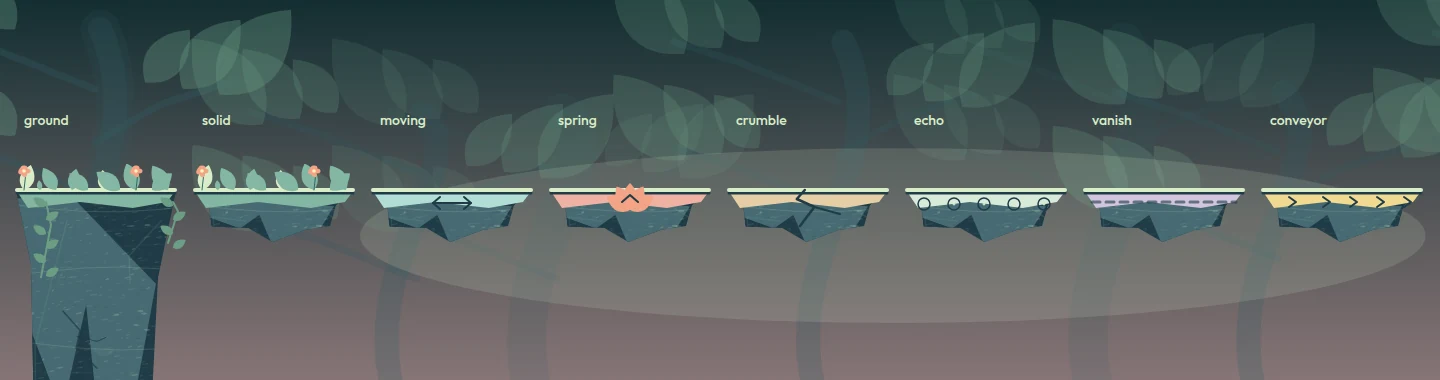
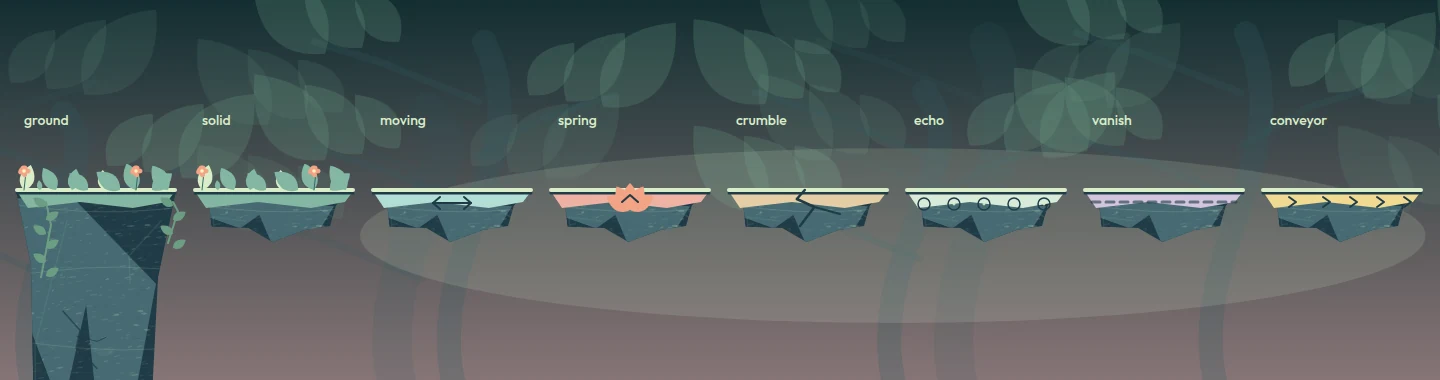
Le songe part dans l'autre sens
Issue #3, seconde moitié — troisième lieu, la silhouette.

Sur le dos d'un songe était une bande plate parcourue de gauche à droite :
on montait sur le dormeur, il allait vers la sortie, on descendait. Le trajet
et la sortie allaient dans le même sens, comme dans cinq lieux sur six.

C'est maintenant un aller-retour. On part de l'île de droite, adossée à une
falaise de 350 px qu'aucun saut ne franchit. Le dormeur emmène vers la
gauche, loin de la sortie, au-dessus du gouffre. Sur l'autre rive, un
escalier de trois marches mène à la route des hauteurs : neuf corniches,
dont une friable et une qui s'efface, au-dessus du chemin qu'on vient de
faire, jusqu'au sommet de la falaise. L'aller se fait porté, le retour à
pied, et on voit l'un depuis l'autre.

Le dormeur peut désormais partir de l'autre bout (`startAt: 'to'`) et, après
une chute depuis l'île de départ, il y revient. Le hérisson attend au pied
de l'escalier, l'essaim reste sur la route de l'aller. Une troisième aide
dit que la falaise ne se franchit que par le haut ; elle est traduite dans
les cinq langues, comme le nouvel objectif et la première aide réécrite.

Le contrat du lieu est durci : porté sur au moins 800 px, et le sommet de la
falaise atteint après avoir été porté. Le pilote le fait sans mort (1529 px
portés, retour par les hauteurs) : il attend que le dormeur arrive au bout
de l'aller, puis grimpe. Un nouveau contrôle prouve que l'île de départ est
[…]

diff --git a/LUMEN.html b/LUMEN.html
@@ -1922,8 +1922,8 @@ window.LumenI18n.add([
   ['Arrivé trop tard ? Attends sur la rive : le nuage repasse toujours.', 'Too late? Wait on the bank: the cloud always comes back.', '¿Llegaste tarde? Espera en la orilla: la nube siempre vuelve a pasar.', 'تأخرت؟ انتظر على الضفة: السحابة تعود دائمًا.', '来晚了？在岸边等一等：云朵总会再飘回来。'],
   ['Sur le dos d’un songe', 'On the back of a dream', 'A lomos de un sueño', 'على ظهر حلم', '梦之背上'],
   ['Le jardin voyage pendant que tu marches.', 'The garden travels as you walk.', 'El jardín viaja mientras caminas.', 'تسافر الحديقة وأنت تمشي.', '你在行走，花园也在旅行。'],
-  ['Appelle le grand dormeur et laisse-le porter le jardin.', 'Call the great sleeper and let it carry the garden.', 'Llama al gran durmiente y deja que lleve el jardín.', 'نادِ النائم الكبير ودعه يحمل الحديقة.', '呼唤沉睡的巨兽，让它驮起花园。'],
-  ['Le grand dormeur porte un jardin. Monte sur son dos, puis appelle-le.', 'The great sleeper carries a garden. Climb onto its back, then call to it.', 'El gran durmiente lleva un jardín. Sube a su lomo y llámalo.', 'يحمل النائم الكبير حديقة. اصعد على ظهره، ثم نادِه.', '沉睡的巨兽驮着一座花园。爬到它背上，再呼唤它。'],
+  ['Traverse le gouffre sur le dos du grand dormeur, puis reviens par les hauteurs.', 'Cross the chasm on the great sleeper’s back, then come back along the heights.', 'Cruza el abismo a lomos del gran durmiente y vuelve por las alturas.', 'اعبر الهوّة على ظهر النائم الكبير، ثم عُد عبر المرتفعات.', '骑在沉睡巨兽的背上越过深渊，再沿着高处返回。'],
+  ['Le grand dormeur t’emmène de l’autre côté du gouffre. Monte sur son dos, puis appelle-le.', 'The great sleeper takes you across the chasm. Climb onto its back, then call to it.', 'El gran durmiente te lleva al otro lado del abismo. Sube a su lomo y llámalo.', 'يأخذك النائم الكبير إلى الضفة الأخرى من الهوّة. اصعد على ظهره ثم نادِه.', '沉睡的巨兽会带你越过深渊。爬上它的背，再呼唤它。'],
   ['Un nouvel appel prolonge son voyage. Tu peux descendre chercher les lumières, puis revenir.', 'Another call extends its journey. You can hop off to find lights, then return.', 'Otra llamada prolonga su viaje. Puedes bajar a buscar luces y volver.', 'نداء آخر يطيل رحلته. يمكنك النزول للبحث عن الأضواء ثم العودة.', '再次呼唤可延长旅程。你可以跳下去寻找光芒，再回到它背上。'],
   ['Le petit astre égaré', 'The little lost star', 'El pequeño astro perdido', 'النجم الصغير التائه', '迷路的小星星'],
   ['Il éclaire le chemin de celui qui le porte.', 'It lights the way for whoever carries it.', 'Ilumina el camino de quien lo lleva.', 'يُنير الطريق لمن يحمله.', '谁带着它，它就为谁照亮道路。'],
@@ -1990,7 +1990,8 @@ window.LumenI18n.add([
   ['Découvre un passage secret dans les jardins.', 'Discover a secret path in the gardens.', 'Descubre un pasaje secreto en los jardines.', 'اكتشف ممرًا سريًا في الحدائق.', '在花园中发现一条秘密通道。'],
   ['Termine le jardin précédent pour ouvrir ce lieu.', 'Complete the preceding garden to open this place.', 'Completa el jardín anterior para abrir este lugar.', 'أكمل الحديقة السابقة لفتح هذا المكان.', '完成前一座花园即可开启此地。'],
   ['Les Rêves nomades', 'Wandering Dreams', 'Los Sueños Nómadas', 'الأحلام الرحّالة', '流浪梦境'],
-  ['Une nuit ne ressemble à aucune autre.', 'Every night is different.', 'Cada noche es diferente.', 'لا تشبه ليلةٌ أخرى.', '每一夜都不同。']
+  ['Une nuit ne ressemble à aucune autre.', 'Every night is different.', 'Cada noche es diferente.', 'لا تشبه ليلةٌ أخرى.', '每一夜都不同。'],
+  ['La falaise ne se franchit que par le haut. Le chemin du retour passe au-dessus du gouffre.', 'The cliff can only be crossed from above. The way back runs high over the chasm.', 'El acantilado solo se supera por arriba. El camino de vuelta pasa por encima del abismo.', 'لا يُعبَر الجرف إلا من الأعلى. طريق العودة يمرّ فوق الهوّة.', '悬崖只能从上方越过。回程的路高悬在深渊之上。'],
 ]);
 
 </script>
@@ -3612,7 +3613,10 @@ window.LumenI18n.add([
     if (config.kind === 'ride') {
       state.mount = game.enemies.find(enemy => enemy.mount);
       state.deck = game.platforms.find(platform => platform.placeRole === 'mount');
-      state.direction = 1; state.metrics.carriedDistance = 0;
+      // Un aller-retour peut commencer à l'autre bout : le dormeur attend alors
+      // à `toX` et part vers la gauche.
+      state.direction = config.startAt === 'to' ? -1 : 1; state.metrics.carriedDistance = 0;
+      if (config.returnAt) state.metrics.returnedHigh = false;
     }
     if (config.kind === 'escort') {
       // L'astre ne marche plus seul : on le prend, on le porte, on le pose.
@@ -3675,6 +3679,11 @@ window.LumenI18n.add([
       deck.dx = deck.x - old; deck.dy = 0;
       mount.x = deck.x; mount.y = deck.y + 3; mount.facing = state.direction;
       if (game.player.standingPlatform === deck) state.metrics.carriedDistance += Math.abs(deck.dx);
+      // Le retour par les hauteurs : avoir été porté, puis atteindre le haut
+      // de la falaise, là où l'île de départ ne mène jamais.
+      const back = config.returnAt, p = game.player;
+      if (back && !state.metrics.returnedHigh && state.metrics.carriedDistance > 800 &&
+        p.x + p.w / 2 >= back.x && p.y + p.h <= back.surfaceY + 6) state.metrics.returnedHigh = true;
     }
     if (state.kind === 'escort') carryBeforePhysics(game, state, config);
     if (state.kind === 'chain') {
@@ -4577,32 +4586,48 @@ window.LumenI18n.add([
   // old key: older profiles keep their frontier through game.isUnlocked().
   const newPlaces = [
     {
+      // Itération 13 : un aller-retour. On part de l'île de droite, adossée à
+      // une falaise qu'aucun saut ne franchit ; le grand dormeur emmène vers
+      // la GAUCHE, loin de la sortie, au-dessus du gouffre. Là-bas, un
+      // escalier mène aux hauteurs, et c'est par elles qu'on revient —
+      // au-dessus du chemin qu'on vient de faire, jusqu'au sommet de la falaise.
       id: 12, key: 'dos-du-songe', journeyAct: 1, name: 'Sur le dos d’un songe',
       subtitle: 'Le jardin voyage pendant que tu marches.', theme: 'meadow', width: 3100, height: 900,
-      medalTargets: { gold: 75, silver: 120 }, spawn: { x: 100, y: 554 }, exit: exit(3100),
-      goal: 'Appelle le grand dormeur et laisse-le porter le jardin.',
-      place: { kind: 'ride', fromX: 500, toX: 2410, speed: 95,
-        pilot: [{ x: 610, surfaceY: 585, ride: true }, { x: 2640, surfaceY: 600 }, { x: 2960, surfaceY: 600 }],
+      medalTargets: { gold: 75, silver: 120 }, spawn: { x: 2700, y: 554 }, exit: exit(3100),
+      goal: 'Traverse le gouffre sur le dos du grand dormeur, puis reviens par les hauteurs.',
+      place: { kind: 'ride', fromX: 500, toX: 2410, speed: 95, startAt: 'to', returnAt: { x: 2900, surfaceY: 250 },
+        pilot: [{ x: 2560, surfaceY: 585, ride: 'left' }, { x: 205, surfaceY: 500 }, { x: 410, surfaceY: 410 },
+          { x: 645, surfaceY: 320 }, { x: 875, surfaceY: 300 }, { x: 1105, surfaceY: 260 }, { x: 1340, surfaceY: 300 },
+          { x: 1575, surfaceY: 270 }, { x: 1810, surfaceY: 300 }, { x: 2035, surfaceY: 260 }, { x: 2270, surfaceY: 290 },
+          { x: 2495, surfaceY: 250 }, { x: 2730, surfaceY: 240 }, { x: 3000, surfaceY: 250 }],
         captureMetric: { name: 'carriedDistance', min: 420 } },
-      platforms: [ground(0, 760), ground(2460, 640),
-        ledge(500, 585, 240, 'solid', { placeRole: 'mount' }),
-        ledge(1070, 490, 230), ledge(1280, 390, 240), ledge(1490, 490, 310),
-        ledge(2660, 485, 220), ledge(2850, 390, 180)],
-      enemies: [{ ...enemy('sleeper', 500, 660, 500, 2410), x: 500, y: 588, w: 240, h: 78, mount: true },
-        // Sur la route de la monture : l'essaim oblige à décider si l'on baisse
-        // la tête, si l'on saute, ou si l'on quitte le dos avant qu'il n'arrive.
+      platforms: [ground(0, 760), ground(2460, 440),
+        // La falaise : 350 px au-dessus de l'île de départ. Elle n'a qu'un
+        // accès, par le haut, au bout du chemin du retour.
+        ground(2900, 200, 250),
+        ledge(2410, 585, 240, 'solid', { placeRole: 'mount' }),
+        // Deux corniches basses, à portée du dos du dormeur pendant l'aller.
+        ledge(1100, 490, 180), ledge(1500, 480, 200),
+        // L'escalier de l'autre rive, puis la route des hauteurs.
+        ledge(120, 500, 170), ledge(330, 410, 160), ledge(560, 320, 170),
+        ledge(800, 300, 150), ledge(1030, 260, 150, 'crumble'), ledge(1260, 300, 160), ledge(1500, 270, 150, 'vanish'),
+        ledge(1730, 300, 160), ledge(1960, 260, 150), ledge(2190, 290, 160), ledge(2420, 250, 150), ledge(2650, 240, 160)],
+      enemies: [{ ...enemy('sleeper', 2410, 660, 500, 2410), x: 2410, y: 588, w: 240, h: 78, mount: true },
+        // Sur la route de l'aller : l'essaim oblige à choisir le moment où
+        // l'on reste accroupi sur le dos, ou celui où l'on saute.
         enemy('swarm', 1560, 430, 1400, 1760),
-        // À l'arrivée, un veilleur : descendre du songe n'est pas gratuit.
-        enemy('hopper', 2700, 600, 2560, 2900)],
-      collectibles: [...coins(235, 552, 6), ...arc(620, 525, 5), ...coins(1310, 345, 5),
-        // Le long du trajet de la monture : ce qu'on ramasse sans descendre.
-        ...arc(1500, 500, 6), ...coins(1880, 470, 5), ...arc(2120, 500, 5),
-        ...coins(2680, 443, 5),
-        item('star', 1140, 442), item('star', 1400, 340), item('star', 2930, 340), item('heart', 2500, 550)],
-      checkpoints: [checkpoint(350), checkpoint(2560)], hazards: [],
-      secrets: [secret(1290, 280, 210, 105)], wakeables: [],
-      hints: [{ x: 160, text: 'Le grand dormeur porte un jardin. Monte sur son dos, puis appelle-le.' },
-        { x: 650, text: 'Un nouvel appel prolonge son voyage. Tu peux descendre chercher les lumières, puis revenir.' }]
+        // À l'arrivée, un veilleur au pied de l'escalier : descendre du songe
+        // n'est pas gratuit.
+        enemy('hopper', 420, 600, 300, 700)],
+      collectibles: [...coins(2520, 552, 5), ...arc(2150, 540, 6), ...arc(1880, 540, 6), ...coins(1115, 445, 5),
+        ...arc(640, 540, 5), ...coins(140, 455, 4), ...coins(345, 365, 4),
+        ...arc(820, 262, 4), ...coins(1275, 255, 4), ...arc(1740, 262, 4), ...coins(2200, 245, 4), ...arc(2430, 212, 4), ...coins(2920, 205, 5),
+        item('star', 1600, 432), item('star', 1990, 212), item('star', 2730, 195), item('heart', 60, 550)],
+      checkpoints: [checkpoint(2560), checkpoint(60)], hazards: [],
+      secrets: [secret(1260, 170, 200, 90)], wakeables: [],
+      hints: [{ x: 2640, text: 'Le grand dormeur t’emmène de l’autre côté du gouffre. Monte sur son dos, puis appelle-le.' },
+        { x: 2080, text: 'Un nouvel appel prolonge son voyage. Tu peux descendre chercher les lumières, puis revenir.' },
+        { x: 420, text: 'La falaise ne se franchit que par le haut. Le chemin du retour passe au-dessus du gouffre.' }]
     },
     {
       // Itération 13 : on ne l'appelle plus, on le PORTE. Et le lieu descend.

diff --git a/js/levels.js b/js/levels.js
@@ -714,32 +714,48 @@
   // old key: older profiles keep their frontier through game.isUnlocked().
   const newPlaces = [
     {
+      // Itération 13 : un aller-retour. On part de l'île de droite, adossée à
+      // une falaise qu'aucun saut ne franchit ; le grand dormeur emmène vers
+      // la GAUCHE, loin de la sortie, au-dessus du gouffre. Là-bas, un
+      // escalier mène aux hauteurs, et c'est par elles qu'on revient —
+      // au-dessus du chemin qu'on vient de faire, jusqu'au sommet de la falaise.
       id: 12, key: 'dos-du-songe', journeyAct: 1, name: 'Sur le dos d’un songe',
       subtitle: 'Le jardin voyage pendant que tu marches.', theme: 'meadow', width: 3100, height: 900,
-      medalTargets: { gold: 75, silver: 120 }, spawn: { x: 100, y: 554 }, exit: exit(3100),
-      goal: 'Appelle le grand dormeur et laisse-le porter le jardin.',
-      place: { kind: 'ride', fromX: 500, toX: 2410, speed: 95,
-        pilot: [{ x: 610, surfaceY: 585, ride: true }, { x: 2640, surfaceY: 600 }, { x: 2960, surfaceY: 600 }],
+      medalTargets: { gold: 75, silver: 120 }, spawn: { x: 2700, y: 554 }, exit: exit(3100),
+      goal: 'Traverse le gouffre sur le dos du grand dormeur, puis reviens par les hauteurs.',
+      place: { kind: 'ride', fromX: 500, toX: 2410, speed: 95, startAt: 'to', returnAt: { x: 2900, surfaceY: 250 },
+        pilot: [{ x: 2560, surfaceY: 585, ride: 'left' }, { x: 205, surfaceY: 500 }, { x: 410, surfaceY: 410 },
+          { x: 645, surfaceY: 320 }, { x: 875, surfaceY: 300 }, { x: 1105, surfaceY: 260 }, { x: 1340, surfaceY: 300 },
+          { x: 1575, surfaceY: 270 }, { x: 1810, surfaceY: 300 }, { x: 2035, surfaceY: 260 }, { x: 2270, surfaceY: 290 },
+          { x: 2495, surfaceY: 250 }, { x: 2730, surfaceY: 240 }, { x: 3000, surfaceY: 250 }],
         captureMetric: { name: 'carriedDistance', min: 420 } },
-      platforms: [ground(0, 760), ground(2460, 640),
-        ledge(500, 585, 240, 'solid', { placeRole: 'mount' }),
-        ledge(1070, 490, 230), ledge(1280, 390, 240), ledge(1490, 490, 310),
-        ledge(2660, 485, 220), ledge(2850, 390, 180)],
-      enemies: [{ ...enemy('sleeper', 500, 660, 500, 2410), x: 500, y: 588, w: 240, h: 78, mount: true },
-        // Sur la route de la monture : l'essaim oblige à décider si l'on baisse
-        // la tête, si l'on saute, ou si l'on quitte le dos avant qu'il n'arrive.
+      platforms: [ground(0, 760), ground(2460, 440),
+        // La falaise : 350 px au-dessus de l'île de départ. Elle n'a qu'un
+        // accès, par le haut, au bout du chemin du retour.
+        ground(2900, 200, 250),
+        ledge(2410, 585, 240, 'solid', { placeRole: 'mount' }),
+        // Deux corniches basses, à portée du dos du dormeur pendant l'aller.
+        ledge(1100, 490, 180), ledge(1500, 480, 200),
+        // L'escalier de l'autre rive, puis la route des hauteurs.
+        ledge(120, 500, 170), ledge(330, 410, 160), ledge(560, 320, 170),
+        ledge(800, 300, 150), ledge(1030, 260, 150, 'crumble'), ledge(1260, 300, 160), ledge(1500, 270, 150, 'vanish'),
+        ledge(1730, 300, 160), ledge(1960, 260, 150), ledge(2190, 290, 160), ledge(2420, 250, 150), ledge(2650, 240, 160)],
+      enemies: [{ ...enemy('sleeper', 2410, 660, 500, 2410), x: 2410, y: 588, w: 240, h: 78, mount: true },
+        // Sur la route de l'aller : l'essaim oblige à choisir le moment où
+        // l'on reste accroupi sur le dos, ou celui où l'on saute.
         enemy('swarm', 1560, 430, 1400, 1760),
-        // À l'arrivée, un veilleur : descendre du songe n'est pas gratuit.
-        enemy('hopper', 2700, 600, 2560, 2900)],
-      collectibles: [...coins(235, 552, 6), ...arc(620, 525, 5), ...coins(1310, 345, 5),
-        // Le long du trajet de la monture : ce qu'on ramasse sans descendre.
-        ...arc(1500, 500, 6), ...coins(1880, 470, 5), ...arc(2120, 500, 5),
-        ...coins(2680, 443, 5),
-        item('star', 1140, 442), item('star', 1400, 340), item('star', 2930, 340), item('heart', 2500, 550)],
-      checkpoints: [checkpoint(350), checkpoint(2560)], hazards: [],
-      secrets: [secret(1290, 280, 210, 105)], wakeables: [],
-      hints: [{ x: 160, text: 'Le grand dormeur porte un jardin. Monte sur son dos, puis appelle-le.' },
-        { x: 650, text: 'Un nouvel appel prolonge son voyage. Tu peux descendre chercher les lumières, puis revenir.' }]
+        // À l'arrivée, un veilleur au pied de l'escalier : descendre du songe
+        // n'est pas gratuit.
+        enemy('hopper', 420, 600, 300, 700)],
+      collectibles: [...coins(2520, 552, 5), ...arc(2150, 540, 6), ...arc(1880, 540, 6), ...coins(1115, 445, 5),
+        ...arc(640, 540, 5), ...coins(140, 455, 4), ...coins(345, 365, 4),
+        ...arc(820, 262, 4), ...coins(1275, 255, 4), ...arc(1740, 262, 4), ...coins(2200, 245, 4), ...arc(2430, 212, 4), ...coins(2920, 205, 5),
+        item('star', 1600, 432), item('star', 1990, 212), item('star', 2730, 195), item('heart', 60, 550)],
+      checkpoints: [checkpoint(2560), checkpoint(60)], hazards: [],
+      secrets: [secret(1260, 170, 200, 90)], wakeables: [],
+      hints: [{ x: 2640, text: 'Le grand dormeur t’emmène de l’autre côté du gouffre. Monte sur son dos, puis appelle-le.' },
+        { x: 2080, text: 'Un nouvel appel prolonge son voyage. Tu peux descendre chercher les lumières, puis revenir.' },
+        { x: 420, text: 'La falaise ne se franchit que par le haut. Le chemin du retour passe au-dessus du gouffre.' }]
     },
     {
       // Itération 13 : on ne l'appelle plus, on le PORTE. Et le lieu descend.

diff --git a/js/locales-journey.js b/js/locales-journey.js
@@ -20,8 +20,8 @@ window.LumenI18n.add([
   ['Arrivé trop tard ? Attends sur la rive : le nuage repasse toujours.', 'Too late? Wait on the bank: the cloud always comes back.', '¿Llegaste tarde? Espera en la orilla: la nube siempre vuelve a pasar.', 'تأخرت؟ انتظر على الضفة: السحابة تعود دائمًا.', '来晚了？在岸边等一等：云朵总会再飘回来。'],
   ['Sur le dos d’un songe', 'On the back of a dream', 'A lomos de un sueño', 'على ظهر حلم', '梦之背上'],
   ['Le jardin voyage pendant que tu marches.', 'The garden travels as you walk.', 'El jardín viaja mientras caminas.', 'تسافر الحديقة وأنت تمشي.', '你在行走，花园也在旅行。'],
-  ['Appelle le grand dormeur et laisse-le porter le jardin.', 'Call the great sleeper and let it carry the garden.', 'Llama al gran durmiente y deja que lleve el jardín.', 'نادِ النائم الكبير ودعه يحمل الحديقة.', '呼唤沉睡的巨兽，让它驮起花园。'],
-  ['Le grand dormeur porte un jardin. Monte sur son dos, puis appelle-le.', 'The great sleeper carries a garden. Climb onto its back, then call to it.', 'El gran durmiente lleva un jardín. Sube a su lomo y llámalo.', 'يحمل النائم الكبير حديقة. اصعد على ظهره، ثم نادِه.', '沉睡的巨兽驮着一座花园。爬到它背上，再呼唤它。'],
+  ['Traverse le gouffre sur le dos du grand dormeur, puis reviens par les hauteurs.', 'Cross the chasm on the great sleeper’s back, then come back along the heights.', 'Cruza el abismo a lomos del gran durmiente y vuelve por las alturas.', 'اعبر الهوّة على ظهر النائم الكبير، ثم عُد عبر المرتفعات.', '骑在沉睡巨兽的背上越过深渊，再沿着高处返回。'],
+  ['Le grand dormeur t’emmène de l’autre côté du gouffre. Monte sur son dos, puis appelle-le.', 'The great sleeper takes you across the chasm. Climb onto its back, then call to it.', 'El gran durmiente te lleva al otro lado del abismo. Sube a su lomo y llámalo.', 'يأخذك النائم الكبير إلى الضفة الأخرى من الهوّة. اصعد على ظهره ثم نادِه.', '沉睡的巨兽会带你越过深渊。爬上它的背，再呼唤它。'],
   ['Un nouvel appel prolonge son voyage. Tu peux descendre chercher les lumières, puis revenir.', 'Another call extends its journey. You can hop off to find lights, then return.', 'Otra llamada prolonga su viaje. Puedes bajar a buscar luces y volver.', 'نداء آخر يطيل رحلته. يمكنك النزول للبحث عن الأضواء ثم العودة.', '再次呼唤可延长旅程。你可以跳下去寻找光芒，再回到它背上。'],
   ['Le petit astre égaré', 'The little lost star', 'El pequeño astro perdido', 'النجم الصغير التائه', '迷路的小星星'],
   ['Il éclaire le chemin de celui qui le porte.', 'It lights the way for whoever carries it.', 'Ilumina el camino de quien lo lleva.', 'يُنير الطريق لمن يحمله.', '谁带着它，它就为谁照亮道路。'],
@@ -88,5 +88,6 @@ window.LumenI18n.add([
   ['Découvre un passage secret dans les jardins.', 'Discover a secret path in the gardens.', 'Descubre un pasaje secreto en los jardines.', 'اكتشف ممرًا سريًا في الحدائق.', '在花园中发现一条秘密通道。'],
   ['Termine le jardin précédent pour ouvrir ce lieu.', 'Complete the preceding garden to open this place.', 'Completa el jardín anterior para abrir este lugar.', 'أكمل الحديقة السابقة لفتح هذا المكان.', '完成前一座花园即可开启此地。'],
   ['Les Rêves nomades', 'Wandering Dreams', 'Los Sueños Nómadas', 'الأحلام الرحّالة', '流浪梦境'],
-  ['Une nuit ne ressemble à aucune autre.', 'Every night is different.', 'Cada noche es diferente.', 'لا تشبه ليلةٌ أخرى.', '每一夜都不同。']
+  ['Une nuit ne ressemble à aucune autre.', 'Every night is different.', 'Cada noche es diferente.', 'لا تشبه ليلةٌ أخرى.', '每一夜都不同。'],
+  ['La falaise ne se franchit que par le haut. Le chemin du retour passe au-dessus du gouffre.', 'The cliff can only be crossed from above. The way back runs high over the chasm.', 'El acantilado solo se supera por arriba. El camino de vuelta pasa por encima del abismo.', 'لا يُعبَر الجرف إلا من الأعلى. طريق العودة يمرّ فوق الهوّة.', '悬崖只能从上方越过。回程的路高悬在深渊之上。'],
 ]);

diff --git a/js/places.js b/js/places.js
@@ -16,7 +16,10 @@
     if (config.kind === 'ride') {
       state.mount = game.enemies.find(enemy => enemy.mount);
       state.deck = game.platforms.find(platform => platform.placeRole === 'mount');
-      state.direction = 1; state.metrics.carriedDistance = 0;
+      // Un aller-retour peut commencer à l'autre bout : le dormeur attend alors
+      // à `toX` et part vers la gauche.
+      state.direction = config.startAt === 'to' ? -1 : 1; state.metrics.carriedDistance = 0;
+      if (config.returnAt) state.metrics.returnedHigh = false;
     }
     if (config.kind === 'escort') {
       // L'astre ne marche plus seul : on le prend, on le porte, on le pose.
@@ -79,6 +82,11 @@
       deck.dx = deck.x - old; deck.dy = 0;
       mount.x = deck.x; mount.y = deck.y + 3; mount.facing = state.direction;
       if (game.player.standingPlatform === deck) state.metrics.carriedDistance += Math.abs(deck.dx);
+      // Le retour par les hauteurs : avoir été porté, puis atteindre le haut
+      // de la falaise, là où l'île de départ ne mène jamais.
+      const back = config.returnAt, p = game.player;
+      if (back && !state.metrics.returnedHigh && state.metrics.carriedDistance > 800 &&
+        p.x + p.w / 2 >= back.x && p.y + p.h <= back.surfaceY + 6) state.metrics.returnedHigh = true;
     }
     if (state.kind === 'escort') carryBeforePhysics(game, state, config);
     if (state.kind === 'chain') {
